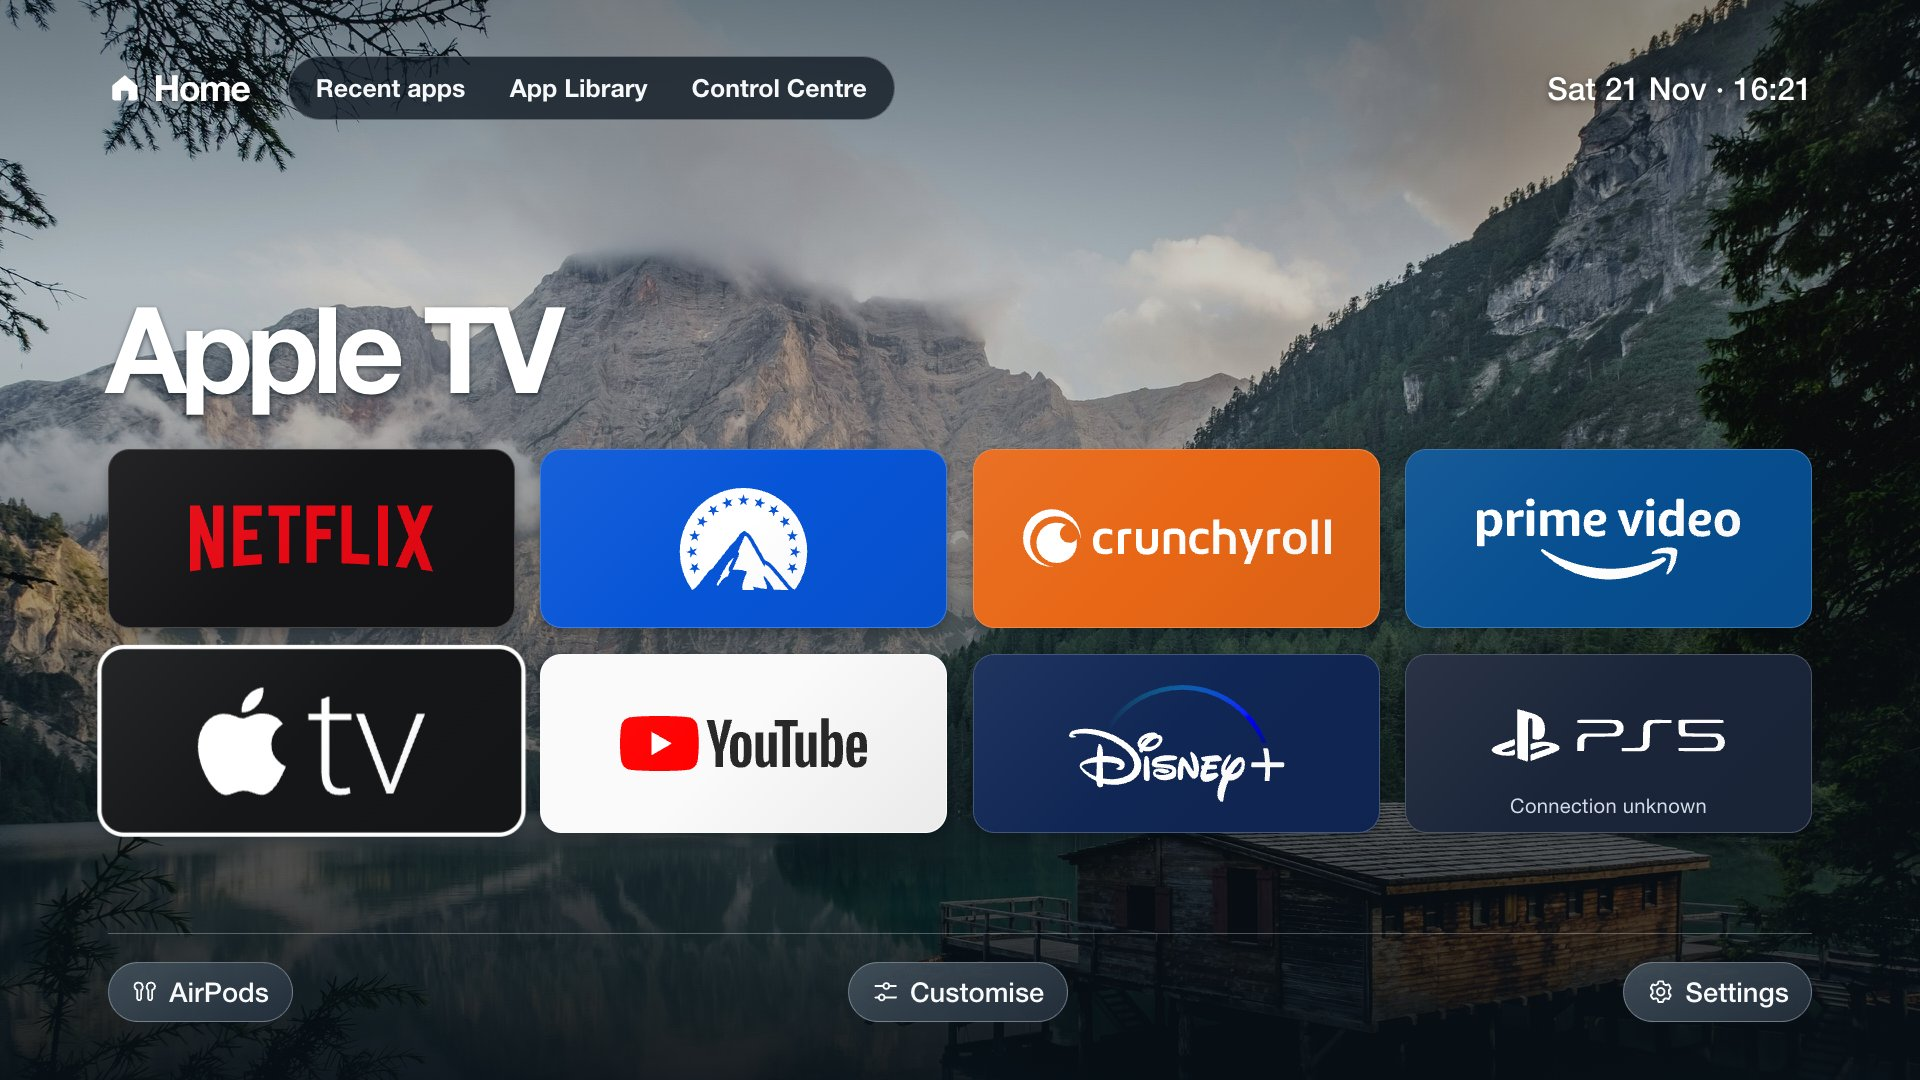
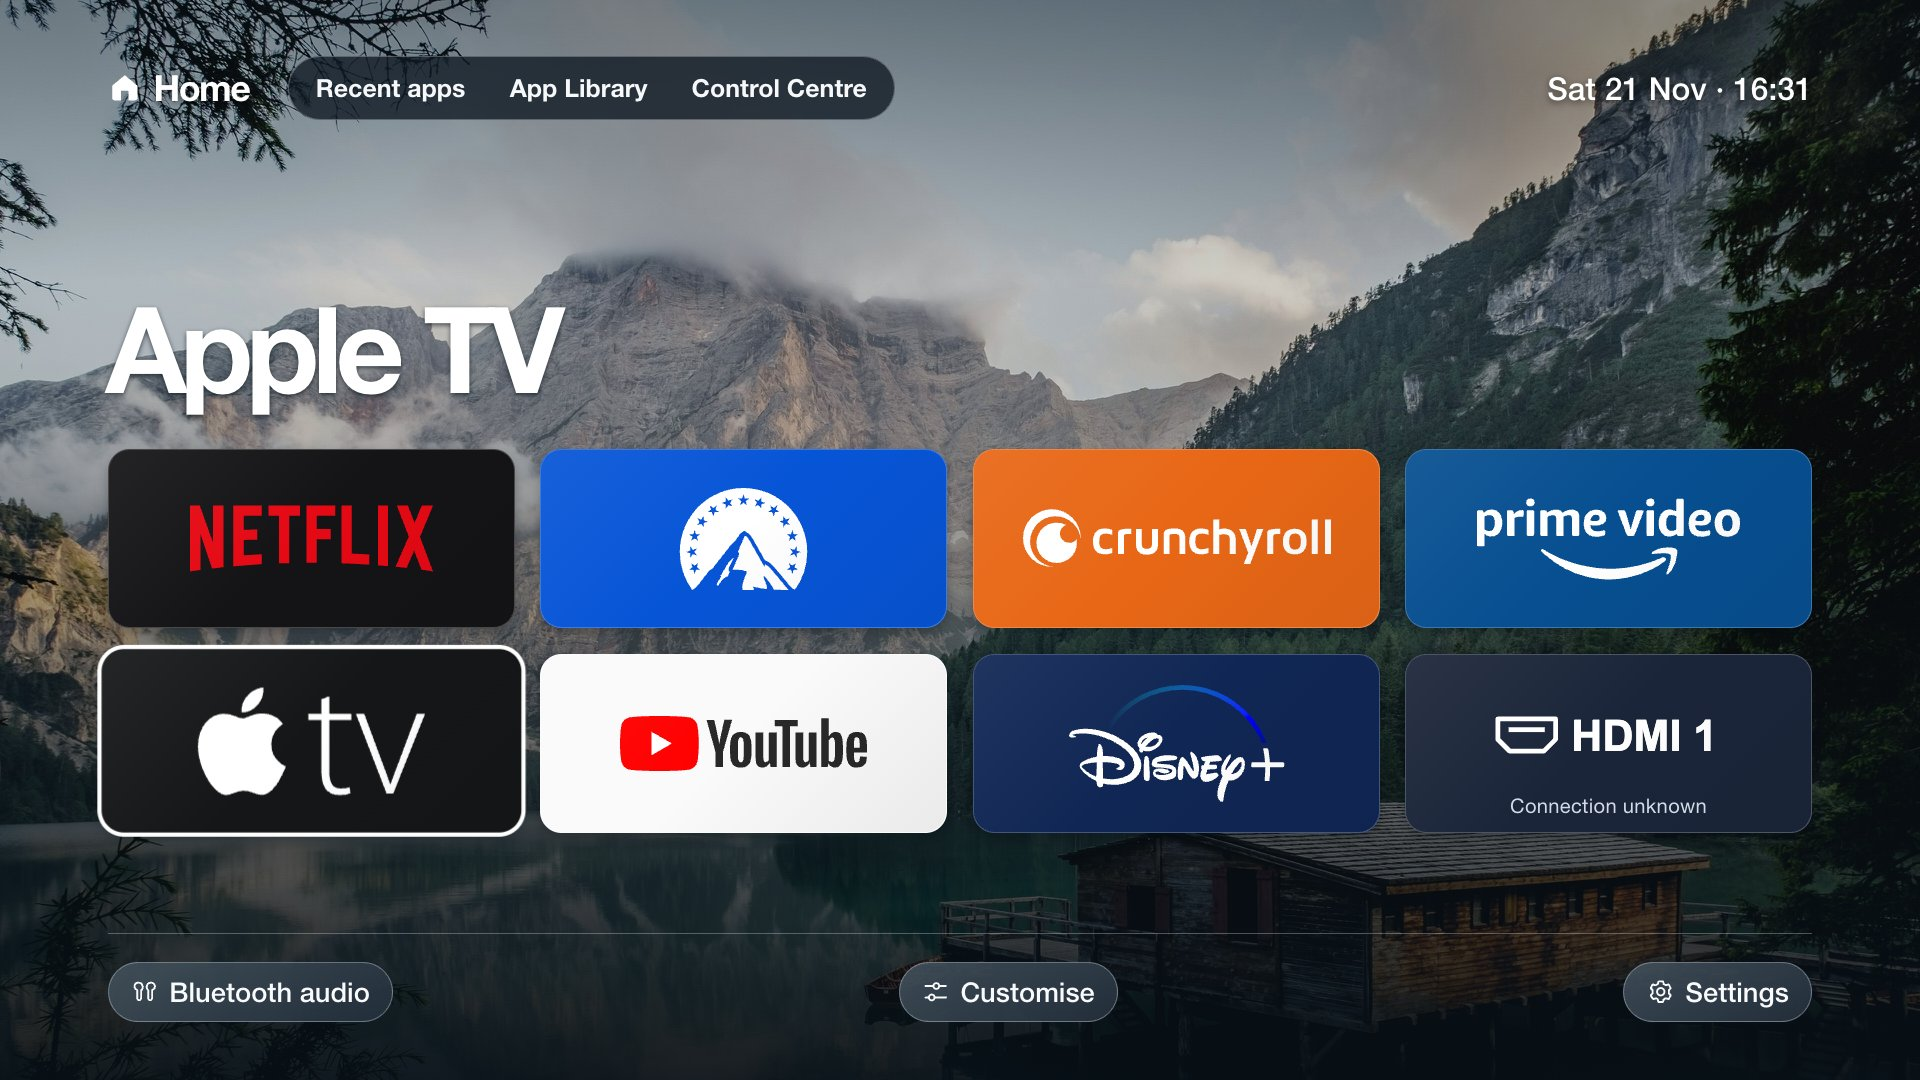
Add remote-guided Home setup and generic device shortcuts

Changed region(s): [[0.4375, 0.8861, 0.5938, 0.9472], [0.0938, 0.8861, 0.2188, 0.9472], [0.7812, 0.6417, 0.9062, 0.7028]]

diff --git a/app/dashboard.js b/app/dashboard.js
@@ -1,6 +1,6 @@
 (function () {
   'use strict';
-  var services = ['Netflix','Paramount+','Crunchyroll','Prime Video','Apple TV','YouTube','Disney+','PS5'];
+  var services = ['Netflix','Paramount+','Crunchyroll','Prime Video','Apple TV','YouTube','Disney+','HDMI 1'];
   var aliases = [['netflix'],['paramountplus'],['crunchyroll'],['primevideo','amazonprimevideo','amazonvideo','amazoninstantvideo'],['appletv','appletvplus'],['youtube'],['disneyplus']];
   // IDs reported by the UE43MU6100. Name lookup also supports later installs.
   var installedIds = ['org.tizen.netflix-app','rJyOSqC6Up.PPlusIntl','OGLLvqej7u.CrunchyrollWebApp','evKhCgZelL.AmazonIgnitionLauncher2','Y6A54cEa22.AppleTV','9Ur5IzDKqV.TizenYouTube','MCmYXNxgcu.DisneyPlus'];
@@ -11,7 +11,7 @@
   var dialog = document.querySelector('aside');
   var buttons = [], selected = 0, playing = false, leavingHDMI = false;
   var footerOrigin = null;
-  var labels = services.concat(['AirPods','Customise','Settings','Recent apps','App Library','Control Centre']);
+  var labels = services.concat(['Bluetooth audio','Customise','Settings','Recent apps','App Library','Control Centre']);
   var selectionName = document.querySelector('#selection-name');
   var editing = false, moving = false, quickMove = false;
   var order = services.map(function (_, index) { return index; });
@@ -148,43 +148,43 @@
     }
     try { tv.application.launch(installedIds[index], launched, findByName); } catch (error) { findByName(); }
   }
-  var ps5Status = document.createElement('span');
-  ps5Status.className = 'ps5-status';
+  var hdmiStatus = document.createElement('span');
+  hdmiStatus.className = 'hdmi-status';
   var statusTimer, statusVersion = 0;
-  function ps5Port(list) {
+  function hdmiPort(list) {
     if (!list) { return null; }
     for (var i = 0; i < list.length; i++) {
       if (list[i].type === 'HDMI' && Number(list[i].number) === 1) { return list[i]; }
     }
     return null;
   }
-  function showPS5Status(sources) {
+  function showHDMIStatus(sources) {
     var label = 'Connection unknown';
-    if (sources && ps5Port(sources.connected)) { label = 'PS5 connected'; }
-    else if (sources && ps5Port(sources.disconnected)) { label = 'PS5 not connected'; }
-    if (ps5Status.textContent !== label) {
-      ps5Status.textContent = label;
-      buttons[7].setAttribute('aria-label',label === 'Connection unknown' ? 'PS5, connection unknown' : label);
+    if (sources && hdmiPort(sources.connected)) { label = 'Device connected'; }
+    else if (sources && hdmiPort(sources.disconnected)) { label = 'No device connected'; }
+    if (hdmiStatus.textContent !== label) {
+      hdmiStatus.textContent = label;
+      buttons[7].setAttribute('aria-label','HDMI 1, '+label);
     }
   }
-  function refreshPS5Status() {
+  function refreshHDMIStatus() {
     clearTimeout(statusTimer);
     var version = ++statusVersion;
     if (document.hidden) { return; }
-    if (!tv || !tv.systeminfo) { showPS5Status(null); return; }
+    if (!tv || !tv.systeminfo) { showHDMIStatus(null); return; }
     function received(sources) {
-      if (version === statusVersion) { showPS5Status(sources); }
+      if (version === statusVersion) { showHDMIStatus(sources); }
     }
     try { tv.systeminfo.getPropertyValue('VIDEOSOURCE',received,function () { received(null); }); }
     catch (error) { received(null); }
-    statusTimer = setTimeout(refreshPS5Status,10000);
+    statusTimer = setTimeout(refreshHDMIStatus,10000);
   }
   function playHDMI(request) {
-    function failed() { if (pendingLaunch !== request) { return; } unlockLaunch(true); message('PS5','Turn on the PS5 and check HDMI 1. If the input is unavailable here, select HDMI 1 from Samsung Home → Source.'); }
+    function failed() { if (pendingLaunch !== request) { return; } unlockLaunch(true); message('HDMI 1','Turn on the device and check its HDMI 1 connection. If the input is unavailable here, select HDMI 1 from Samsung Home → Source.'); }
     tv.systeminfo.getPropertyValue('VIDEOSOURCE',function (sources) {
       if (pendingLaunch !== request) { return; }
-      var port = sources && ps5Port(sources.connected);
-      showPS5Status(sources);
+      var port = sources && hdmiPort(sources.connected);
+      showHDMIStatus(sources);
       if (!port) { failed(); return; }
       try {
         tv.tvwindow.setSource(port,function () {
@@ -246,7 +246,7 @@
     var request = {index:index,app:app,external:!!app && app.id !== 'input:hdmi1',wasHidden:false};
     pendingLaunch = latestRequest = request;
     var brand = app ? brandIndex(app) : -1;
-    document.querySelector('#launch-label').textContent = index === 7 ? 'Switching to PS5…' : 'Opening ' + title + '…';
+    document.querySelector('#launch-label').textContent = index === 7 ? 'Switching to HDMI 1…' : 'Opening ' + title + '…';
     launchScreen.hidden = false;
     launchTimeout = setTimeout(function () {
       if (pendingLaunch !== request || request.wasHidden || document.hidden) { return; }
@@ -259,7 +259,7 @@
         var speakerHelp = function () {
           if (pendingLaunch !== request) { return; }
           unlockLaunch(true);
-          message('AirPods','On your TV, open Home → Settings → Sound → Sound Output → Bluetooth Speaker List, then select your paired AirPods.');
+          message('Bluetooth audio','On your TV, open Home → Settings → Sound → Sound Output → Bluetooth Speaker List, then select your headphones or speaker.');
         };
         try { tv.application.launch('org.tizen.btaudiolist',function () { if (pendingLaunch === request) { unlockLaunch(); } },speakerHelp); }
         catch (error) { speakerHelp(); }
@@ -285,7 +285,7 @@
   }
   var wallpapers = ['Alpine lake','Midnight lake','Black'];
   var colours = ['Red','Green','Yellow','Blue'];
-  var actions = services.concat(['AirPods','Last used','Tile options','Recent apps','App Library','Control Centre']);
+  var actions = services.concat(['Bluetooth audio','Last used','Tile options','Recent apps','App Library','Control Centre']);
   var defaults = [7,9,10,8];
   var shortcutSlot = 0;
   var prefs = {quickLaunch:true,reduceMotion:false,filter:false, hidden:[], fixed:false, first:0, last:0, wallpaper:0, sounds:true, ambient:true, weather:true, launched:-1, shortcuts:defaults.slice()};
@@ -401,7 +401,9 @@
     options.appendChild(button);
     return button;
   }
+  var setupSlot = -1;
   function closeMenu() {
+    setupSlot = -1;
     menu = ''; menuEpoch++; shelfEntries = []; panel.hidden = true; focusTile(menuOwner);
     resetIdle();
   }
@@ -428,7 +430,11 @@
     entries.forEach(function (app) {
       var button = addOption(app.name,function () {
         if (pick) {
-          library.pin(menuOwner,app); updateTile(menuOwner); closeMenu();
+          if (setupSlot >= 0) {
+            library.pin(setupSlot,app); updateTile(setupSlot);
+            var position = order.filter(function (id) { return id !== 7; }).indexOf(setupSlot);
+            setupSlot = -1; showMenu('Set up Home apps',position);
+          } else { library.pin(menuOwner,app); updateTile(menuOwner); closeMenu(); }
         } else { launchEntry(app); }
       });
       button.className = 'shelf-card';
@@ -488,7 +494,7 @@
       } else {
         renderShelf(page,epoch,[],'Reading apps from your TV…');
         library.installed(function (apps) {
-          var text = page === 'Choose app' ? 'Choose a replacement for '+services[menuOwner]+'.' : '';
+          var text = page === 'Choose app' ? 'Choose a replacement for '+services[setupSlot >= 0 ? setupSlot : menuOwner]+'.' : '';
           if (!tv) { text = 'Preview shortcuts. Open Dashboard on your TV to see installed apps.'; }
           renderShelf(page,epoch,apps,apps.length ? text : 'No streaming apps were listed by the TV.');
         },function () { renderShelf(page,epoch,[],'Samsung could not provide the app list. Press Back and try again.'); });
@@ -540,6 +546,16 @@
       addOption('Wallpaper · '+wallpapers[prefs.wallpaper],function () { showMenu('Wallpaper',prefs.wallpaper); });
       addOption('Remote shortcuts',function () { showMenu('Remote shortcuts',0); });
       addOption('Tile options',function () { showMenu('Select a tile',0); });
+      addOption('Set up Home apps',function () { showMenu('Set up Home apps',0); });
+    } else if (page === 'Set up Home apps') {
+      panelNote('Choose a shortcut to replace with an app from your TV.');
+      order.forEach(function (slot) {
+        if (slot === 7) { return; }
+        addOption(services[slot],function () {
+          setupSlot = slot;
+          showMenu('Choose app',0);
+        });
+      });
     } else if (page === 'Select a tile') {
       visible().forEach(function (id) {
         addOption(services[id],function () { menuOwner = id; showMenu('Tile options',0); });
@@ -596,7 +612,11 @@
     options.children[Math.max(0,Math.min(position,options.children.length-1))].focus();
   }
   function backMenu() {
-    if (menu === 'Choose app') { showMenu('Tile options',0); }
+    if (menu === 'Choose app' && setupSlot >= 0) {
+      var position = order.filter(function (id) { return id !== 7; }).indexOf(setupSlot);
+      setupSlot = -1; showMenu('Set up Home apps',position);
+    } else if (menu === 'Choose app') { showMenu('Tile options',0); }
+    else if (menu === 'Set up Home apps') { showMenu('Customise',4); }
     else if (menu === 'Remote shortcuts') { showMenu('Customise',2); }
     else if (menu === 'Select a tile') { showMenu('Customise',3); }
     else if (menu === 'Choose shortcut') { showMenu('Remote shortcuts',shortcutSlot); }
@@ -619,7 +639,7 @@
     buttons.push(button);
   });
   services.forEach(function (_,id) { updateTile(id); });
-  buttons[7].appendChild(ps5Status);
+  buttons[7].appendChild(hdmiStatus);
   buttons.push(document.querySelector('#air'),document.querySelector('#custom'),document.querySelector('#settings'),
     document.querySelector('#recent'),document.querySelector('#library'),document.querySelector('#centre'));
   buttons.forEach(function (button,id) {
@@ -652,12 +672,12 @@
     var action = prefs.shortcuts[slot];
     if (action >= 11) { menuOwner = selected; showMenu(labels[action],0); return; }
     if (action === 10) {
-      if (selected >= services.length) { message('Tile options','Highlight an app or the PS5 tile first.'); return; }
+      if (selected >= services.length) { message('Tile options','Highlight an app or the HDMI tile first.'); return; }
       menuOwner = selected; showMenu('Tile options',0); return;
     }
     if (action === 9) {
       var recent = library.recents();
-      if (!recent.length) { message('Last used','Open an app or the PS5 from the dashboard first.'); return; }
+      if (!recent.length) { message('Last used','Open an app or HDMI 1 from the dashboard first.'); return; }
       menuOwner = selected; launchEntry(recent[0]); return;
     }
     activate(action);
@@ -704,7 +724,7 @@
         var leftHDMI = function () {
           leavingHDMI = playing = false; document.body.classList.remove('playing'); focusTile(selected); resetIdle();
         };
-        var failedHide = function () { leftHDMI(); message('PS5','The TV could not close HDMI 1. Open Samsung Home → Source if you need to change the input.'); };
+        var failedHide = function () { leftHDMI(); message('HDMI 1','The TV could not close HDMI 1. Open Samsung Home → Source if you need to change the input.'); };
         try { tv.tvwindow.hide(leftHDMI,failedHide); } catch (error) { failedHide(); }
       }
       return;
@@ -805,7 +825,7 @@
   });
   document.addEventListener('visibilitychange',function () {
     resetIdle(); clock();
-    refreshPS5Status();
+    refreshHDMIStatus();
     if (document.hidden) {
       cancelEnter(); heldAction = wakeKey = null;
       if (pendingLaunch && pendingLaunch.external) {
@@ -821,7 +841,7 @@
       restoreFocus();
     }
   });
-  draw(); clock(); refreshPS5Status(); resetIdle();
+  draw(); clock(); refreshHDMIStatus(); resetIdle();
   requestAnimationFrame(function () {
     requestAnimationFrame(function () { document.body.classList.add('wallpaper-ready'); });
   });

diff --git a/app/app-library.js b/app/app-library.js
@@ -10,7 +10,7 @@ function createDashboardLibrary(tv, defaultEntries) {
   function entry(value, allowInput) {
     if (!value || typeof value.id !== 'string' || typeof value.name !== 'string') { return null; }
     if (known[value.id]) { return known[value.id]; }
-    if (allowInput && value.id === inputId) { return {id:inputId,name:'PS5'}; }
+    if (allowInput && value.id === inputId) { return {id:inputId,name:'HDMI 1'}; }
     if (!/^[A-Za-z0-9]{10}\.[A-Za-z0-9._-]+$/.test(value.id)) { return null; }
     var name = value.name.split(/\s+[–-]\s+/)[0].trim().slice(0,80);
     return name ? {id:value.id,name:name} : null;
@@ -40,7 +40,7 @@ function createDashboardLibrary(tv, defaultEntries) {
     save();
   }
   function home(slot) {
-    return slot === 7 ? {id:inputId,name:'PS5'} : state.pins[slot] || defaultEntries[slot];
+    return slot === 7 ? {id:inputId,name:'HDMI 1'} : state.pins[slot] || defaultEntries[slot];
   }
   function installed(done, failed) {
     if (!tv) { done(defaultEntries.slice()); return; }

diff --git a/app/index.html b/app/index.html
@@ -41,7 +41,7 @@
         <svg viewBox="0 0 24 24" aria-hidden="true">
           <path d="M8.9 10.8v6.9a1.7 1.7 0 0 1-3.4 0v-7.2C3.9 10 3 8.9 3 7.4A3.4 3.4 0 0 1 6.5 4c2.1 0 3.8 1.6 3.8 3.8 0 1.3-.5 2.3-1.4 3zM15.1 10.8v6.9a1.7 1.7 0 0 0 3.4 0v-7.2c1.6-.5 2.5-1.6 2.5-3.1A3.4 3.4 0 0 0 17.5 4c-2.1 0-3.8 1.6-3.8 3.8 0 1.3.5 2.3 1.4 3z"/>
         </svg>
-        <span>AirPods</span>
+        <span>Bluetooth audio</span>
       </button>
       <button type="button" id="custom">
         <svg viewBox="0 0 24 24" aria-hidden="true">

diff --git a/app/style.css b/app/style.css
@@ -128,7 +128,7 @@ time { font-size: 1.65vw; font-weight: 500; font-variant-numeric: tabular-nums; 
 #tiles button[data-brand="5"] { background-color: #fafafa; background-size: 61% 56%; }
 #tiles button[data-brand="6"] { background-color: #102654; background-size: 63% 66%; }
 #tiles button[data-brand="7"] { background-color: #1b2539; background-position: center 41%; background-size: 58% 48%; }
-.ps5-status {
+.hdmi-status {
   position: absolute;
   right: .5vw; bottom: 8%; left: .5vw;
   color: #d1dbe9;

diff --git a/README.md b/README.md
@@ -15,9 +15,11 @@ Open `app/index.html` in a browser. Use the arrow keys to move, **Enter** to sel
 | Open a streaming app | Press **OK** on its tile. Dashboard sends the launch request as soon as the button goes down. |
 | Find an app | Press **Up** from the top row, open **App Library**, then press **Up** from its first row to search. |
 | Return to a recent app | Open **Recent apps** above the grid. It remembers the last eight apps and inputs opened through Dashboard. |
+| Set up your favourite apps | Open **Customise → Set up Home apps**, choose a shortcut, then pick an installed app. Repeat for any other shortcuts and press **Back** when finished. |
 | Replace, move or hide a tile | Open **Customise → Tile options** and select the tile. The yellow remote key opens the highlighted tile’s options with the default shortcuts. |
 | Use hold-to-edit | Turn off **Settings → Launch apps on OK press**. A tap then opens the app on release and a long press opens tile options. |
-| Switch to a console | Select **PS5** to show HDMI 1. Press **Back** to return. |
+| Switch to a console | Select **HDMI 1** to show the connected device. Press **Back** to return. |
+| Connect wireless headphones or a speaker | Open **Bluetooth audio** to reach the TV’s speaker list or model-specific guidance. |
 | Adjust the viewing experience | Open **Control Centre** for audio, Reduce Motion or the landscape screen saver. |
 
 ## Install on a TV
